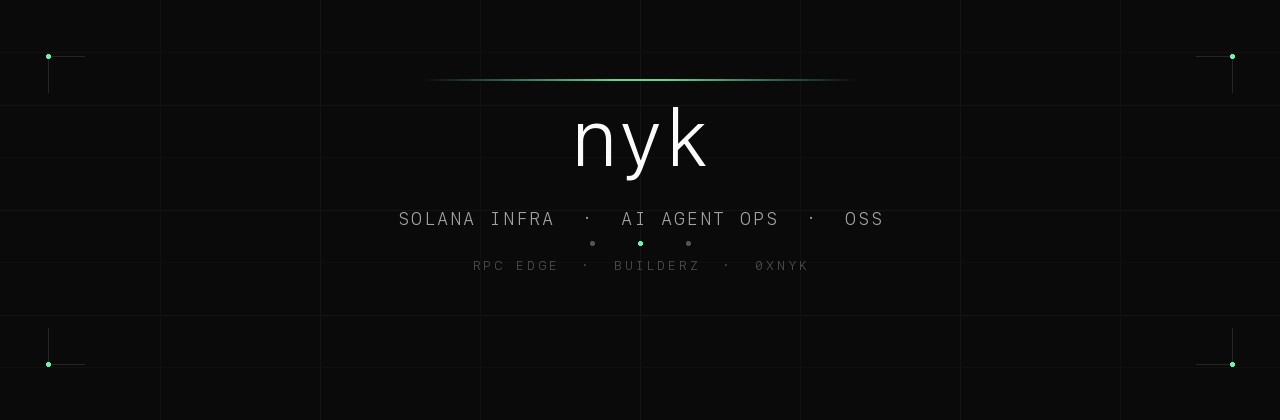
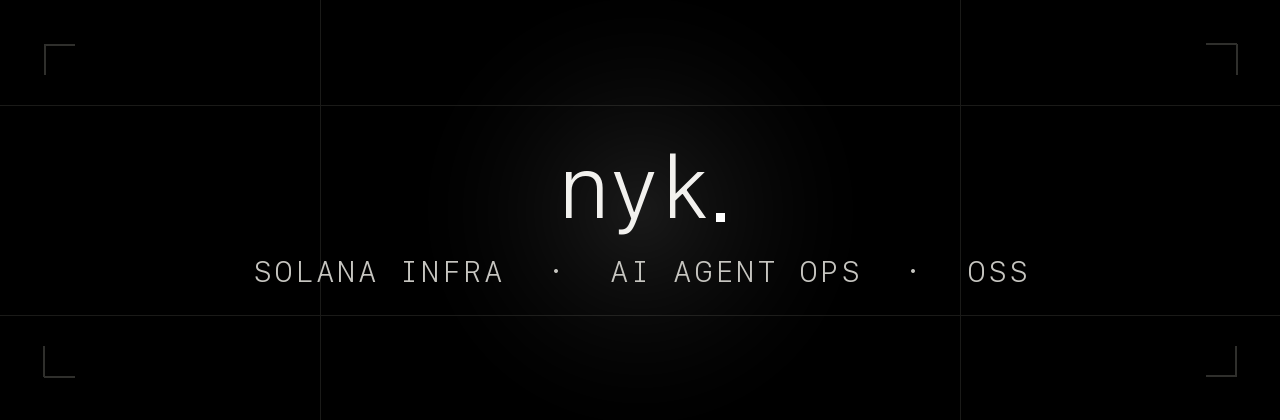
docs: correct the profile README — wrong handle, stale star claim, retired palette
Four real errors, not just a repaint:

- The X badge pointed at @nyk__builderz, a retired handle, while the link text
  directly beneath it already said @nykdotdev.
- "14.5k+ OSS stars (14,507 exact)" was superseded by the 2026-08-01 live audit:
  16,167 across every repo authored. The attribution label was retired
  2026-08-02, so the figure now stands unqualified.
- Every badge carried hub-mint #6EF2A8 and the pre-v4 black #0A0A0A. Both are
  retired. rpc edge keeps its own lime, because a venture's colour is its own.
- The banner cache-buster still advertised "v=6ef2a8-mint".

Banner is now theme-aware via <picture>. A README renders in the VIEWER's
theme, so the ink banner's true-black bleed — which is exactly right on X's
dark chrome — became a hard black rectangle on a white README. Light mode gets
the paper register.

Opening line leads with the position rather than the category.

diff --git a/README.md b/README.md
@@ -1,20 +1,28 @@
 <div align="center">
 
-![nyk](assets/banner.png?v=6ef2a8-mint)
+<picture>
+  <!-- A README renders in the VIEWER's theme. The ink banner bleeds to true
+       black so it dissolves into dark chrome; on a white README that same
+       bleed becomes a hard rectangle, so light mode gets the paper register. -->
+  <source media="(prefers-color-scheme: dark)" srcset="assets/banner.png?v=achroma-v5">
+  <source media="(prefers-color-scheme: light)" srcset="assets/banner-light.png?v=achroma-v5">
+  <img alt="nyk — agent operating systems, Solana infrastructure, open source" src="assets/banner.png?v=achroma-v5">
+</picture>
 
-**Builder** - AI agent ops, Solana infrastructure, open source.  
+**Agents fail on the harness, not the model.**  
+Agent operating systems, Solana infrastructure, open source.  
 Personal brand / hub: [nyk.dev](https://nyk.dev) · GitHub: [github.com/0xNyk](https://github.com/0xNyk)
 
 Ventures under the name: co-founder [rpc edge](https://rpcedge.com) · founded [Builderz](https://builderz.dev) · selective consulting.
 
 <p>
-  <a href="https://nyk.dev"><img src="https://img.shields.io/badge/nyk.dev-6EF2A8?style=flat-square&logo=vercel&logoColor=0A0A0A" alt="nyk.dev" /></a>
-  <a href="https://github.com/0xNyk"><img src="https://img.shields.io/badge/GitHub-0xNyk-181717?style=flat-square&logo=github&logoColor=6EF2A8" alt="GitHub 0xNyk" /></a>
+  <a href="https://nyk.dev"><img src="https://img.shields.io/badge/nyk.dev-FFFFFF?style=flat-square&logo=vercel&logoColor=0D0D0C" alt="nyk.dev" /></a>
+  <a href="https://github.com/0xNyk"><img src="https://img.shields.io/badge/GitHub-0xNyk-181717?style=flat-square&logo=github&logoColor=FFFFFF" alt="GitHub 0xNyk" /></a>
   <a href="https://github.com/0xNyk?tab=repositories"><img src="assets/badges/total.svg" alt="OSS stars" /></a>
-  <a href="https://rpcedge.com"><img src="https://img.shields.io/badge/rpc%20edge-rpcedge.com-C5F23F?style=flat-square&labelColor=0A0A0A" alt="rpc edge" /></a>
-  <a href="https://docs.rpcedge.com"><img src="https://img.shields.io/badge/docs-docs.rpcedge.com-0A0A0A?style=flat-square" alt="rpc edge docs" /></a>
-  <a href="https://x.com/nykdotdev"><img src="https://img.shields.io/badge/X-@nykdotdev-0A0A0A?style=flat-square&logo=x&logoColor=6EF2A8" alt="X" /></a>
-  <a href="https://x.com/rpcedge"><img src="https://img.shields.io/badge/X-@rpcedge-111111?style=flat-square&logo=x" alt="rpc edge on X" /></a>
+  <a href="https://rpcedge.com"><img src="https://img.shields.io/badge/rpc%20edge-rpcedge.com-C5F23F?style=flat-square&labelColor=0D0D0C" alt="rpc edge" /></a>
+  <a href="https://docs.rpcedge.com"><img src="https://img.shields.io/badge/docs-docs.rpcedge.com-0D0D0C?style=flat-square" alt="rpc edge docs" /></a>
+  <a href="https://x.com/nykdotdev"><img src="https://img.shields.io/badge/X-@nykdotdev-0D0D0C?style=flat-square&logo=x&logoColor=FFFFFF" alt="X" /></a>
+  <a href="https://x.com/rpcedge"><img src="https://img.shields.io/badge/X-@rpcedge-171716?style=flat-square&logo=x" alt="rpc edge on X" /></a>
 </p>
 
 </div>
